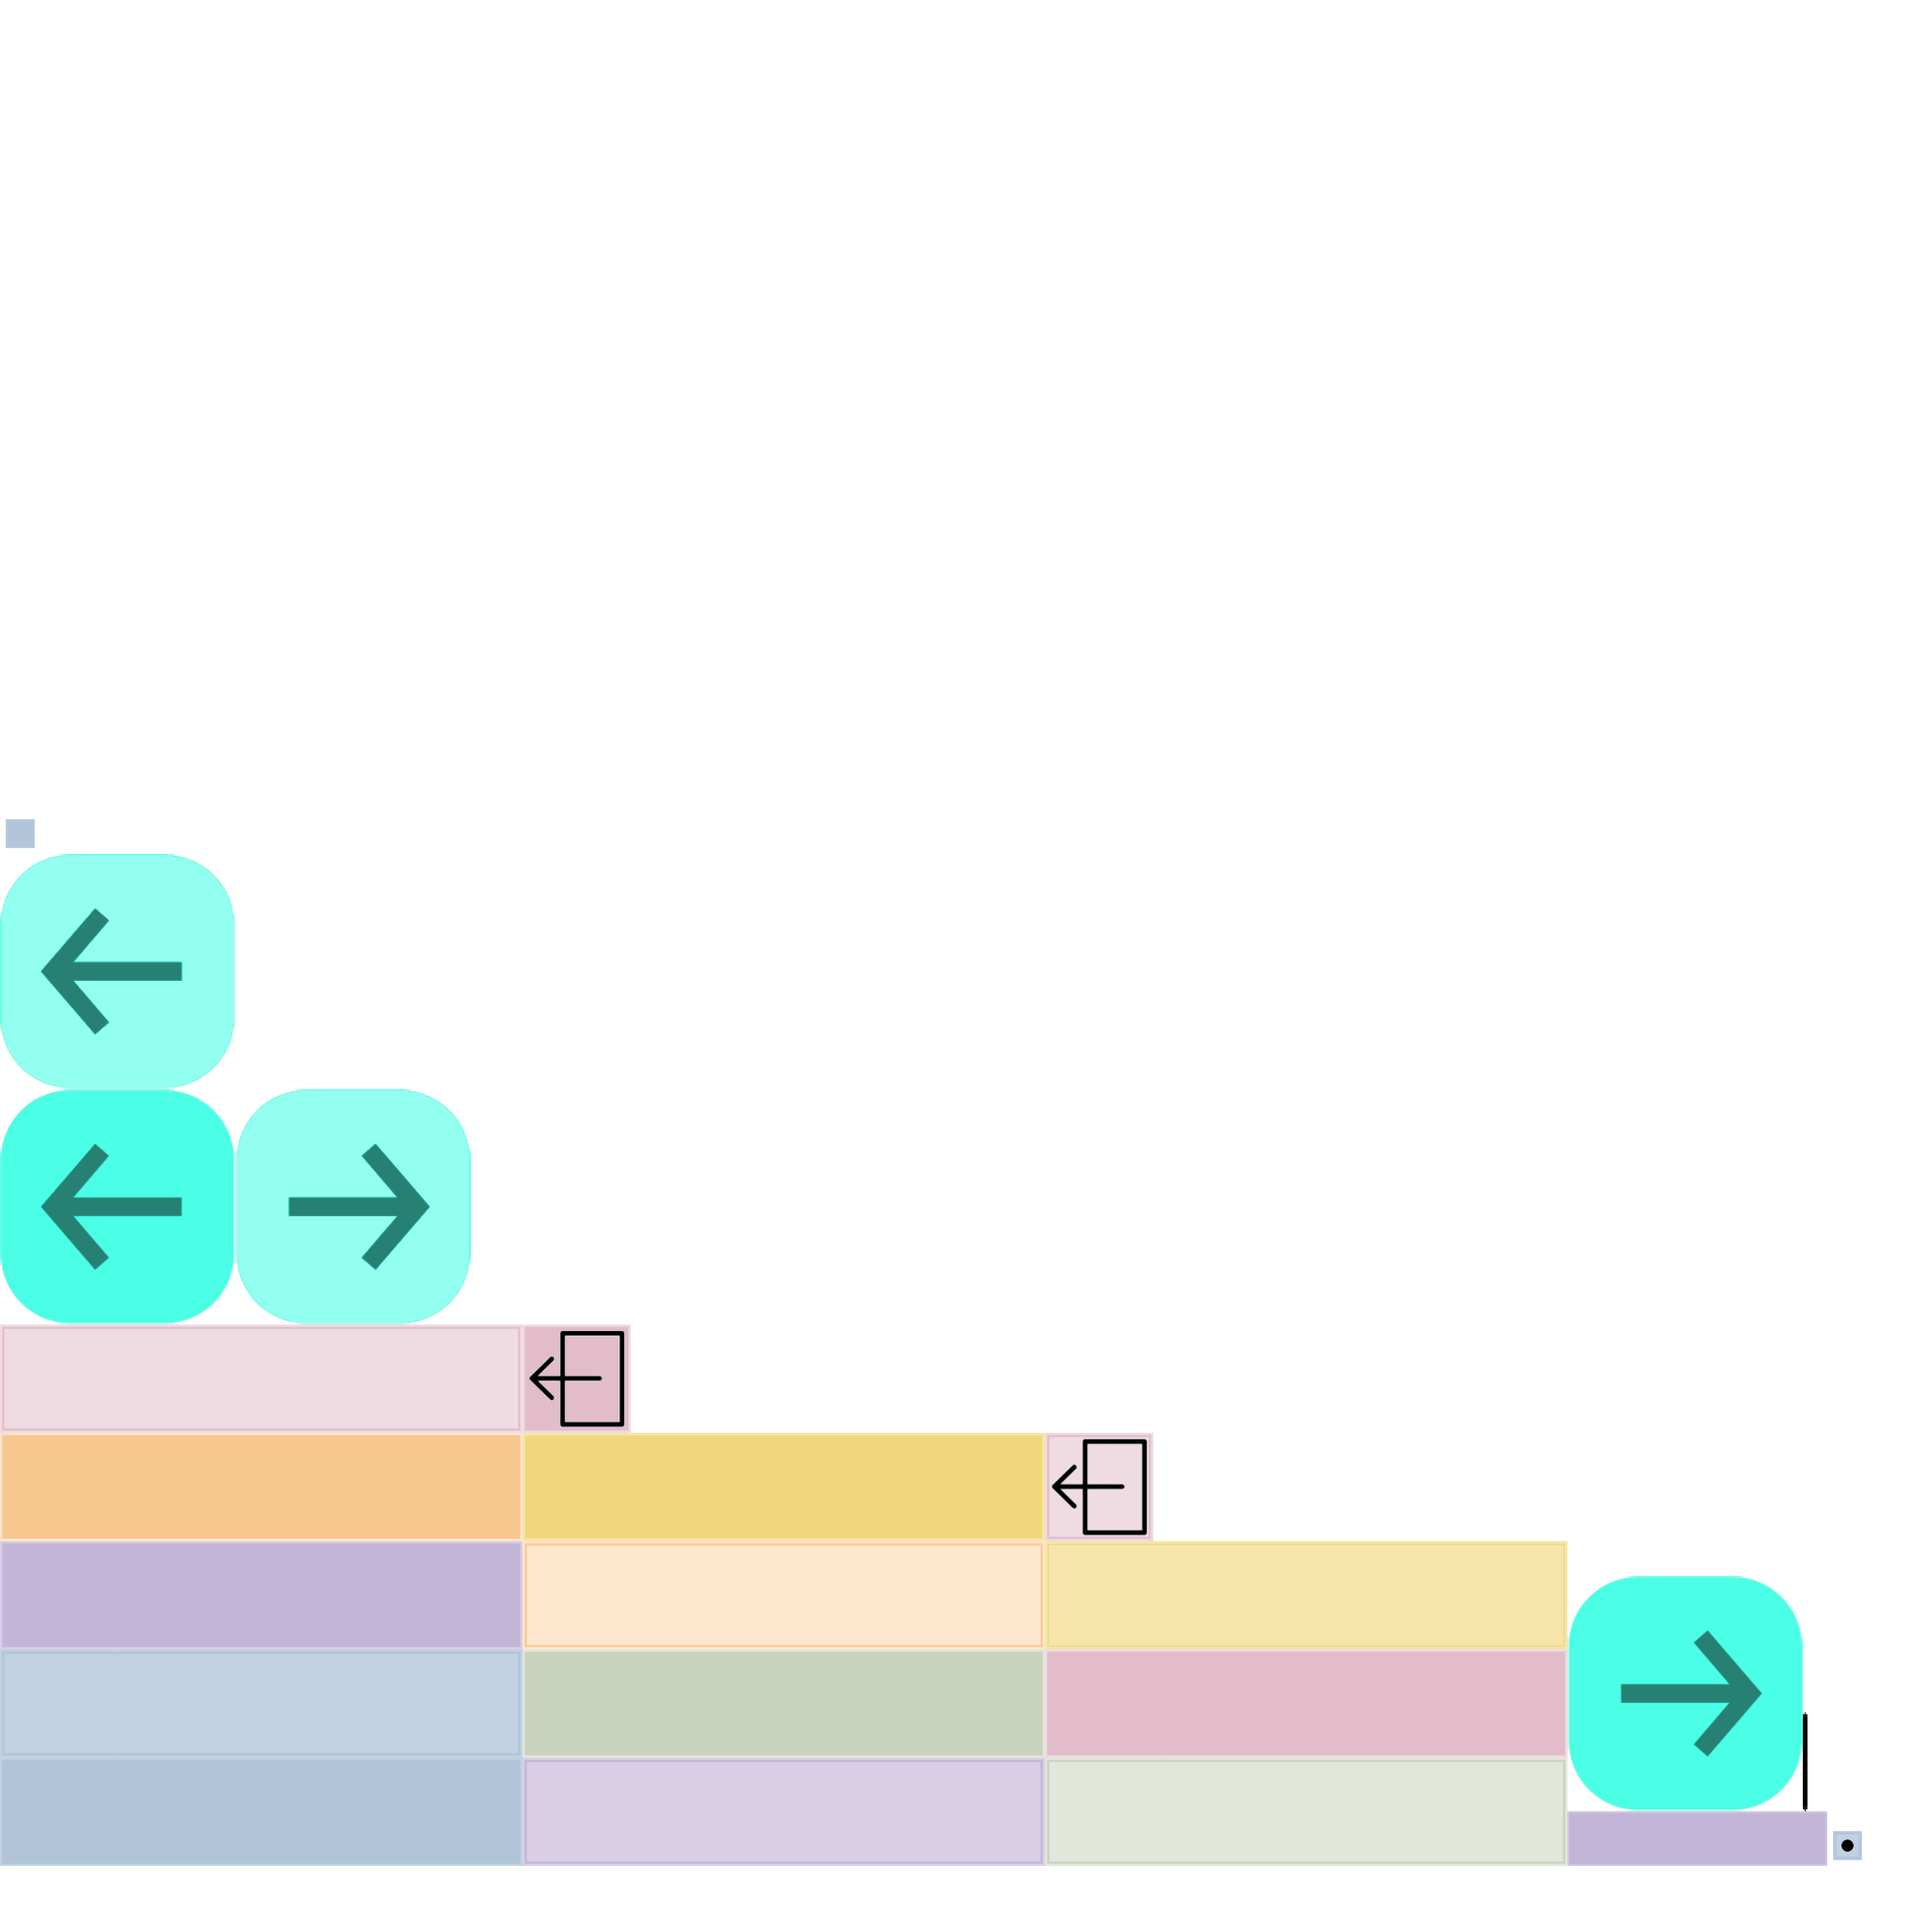
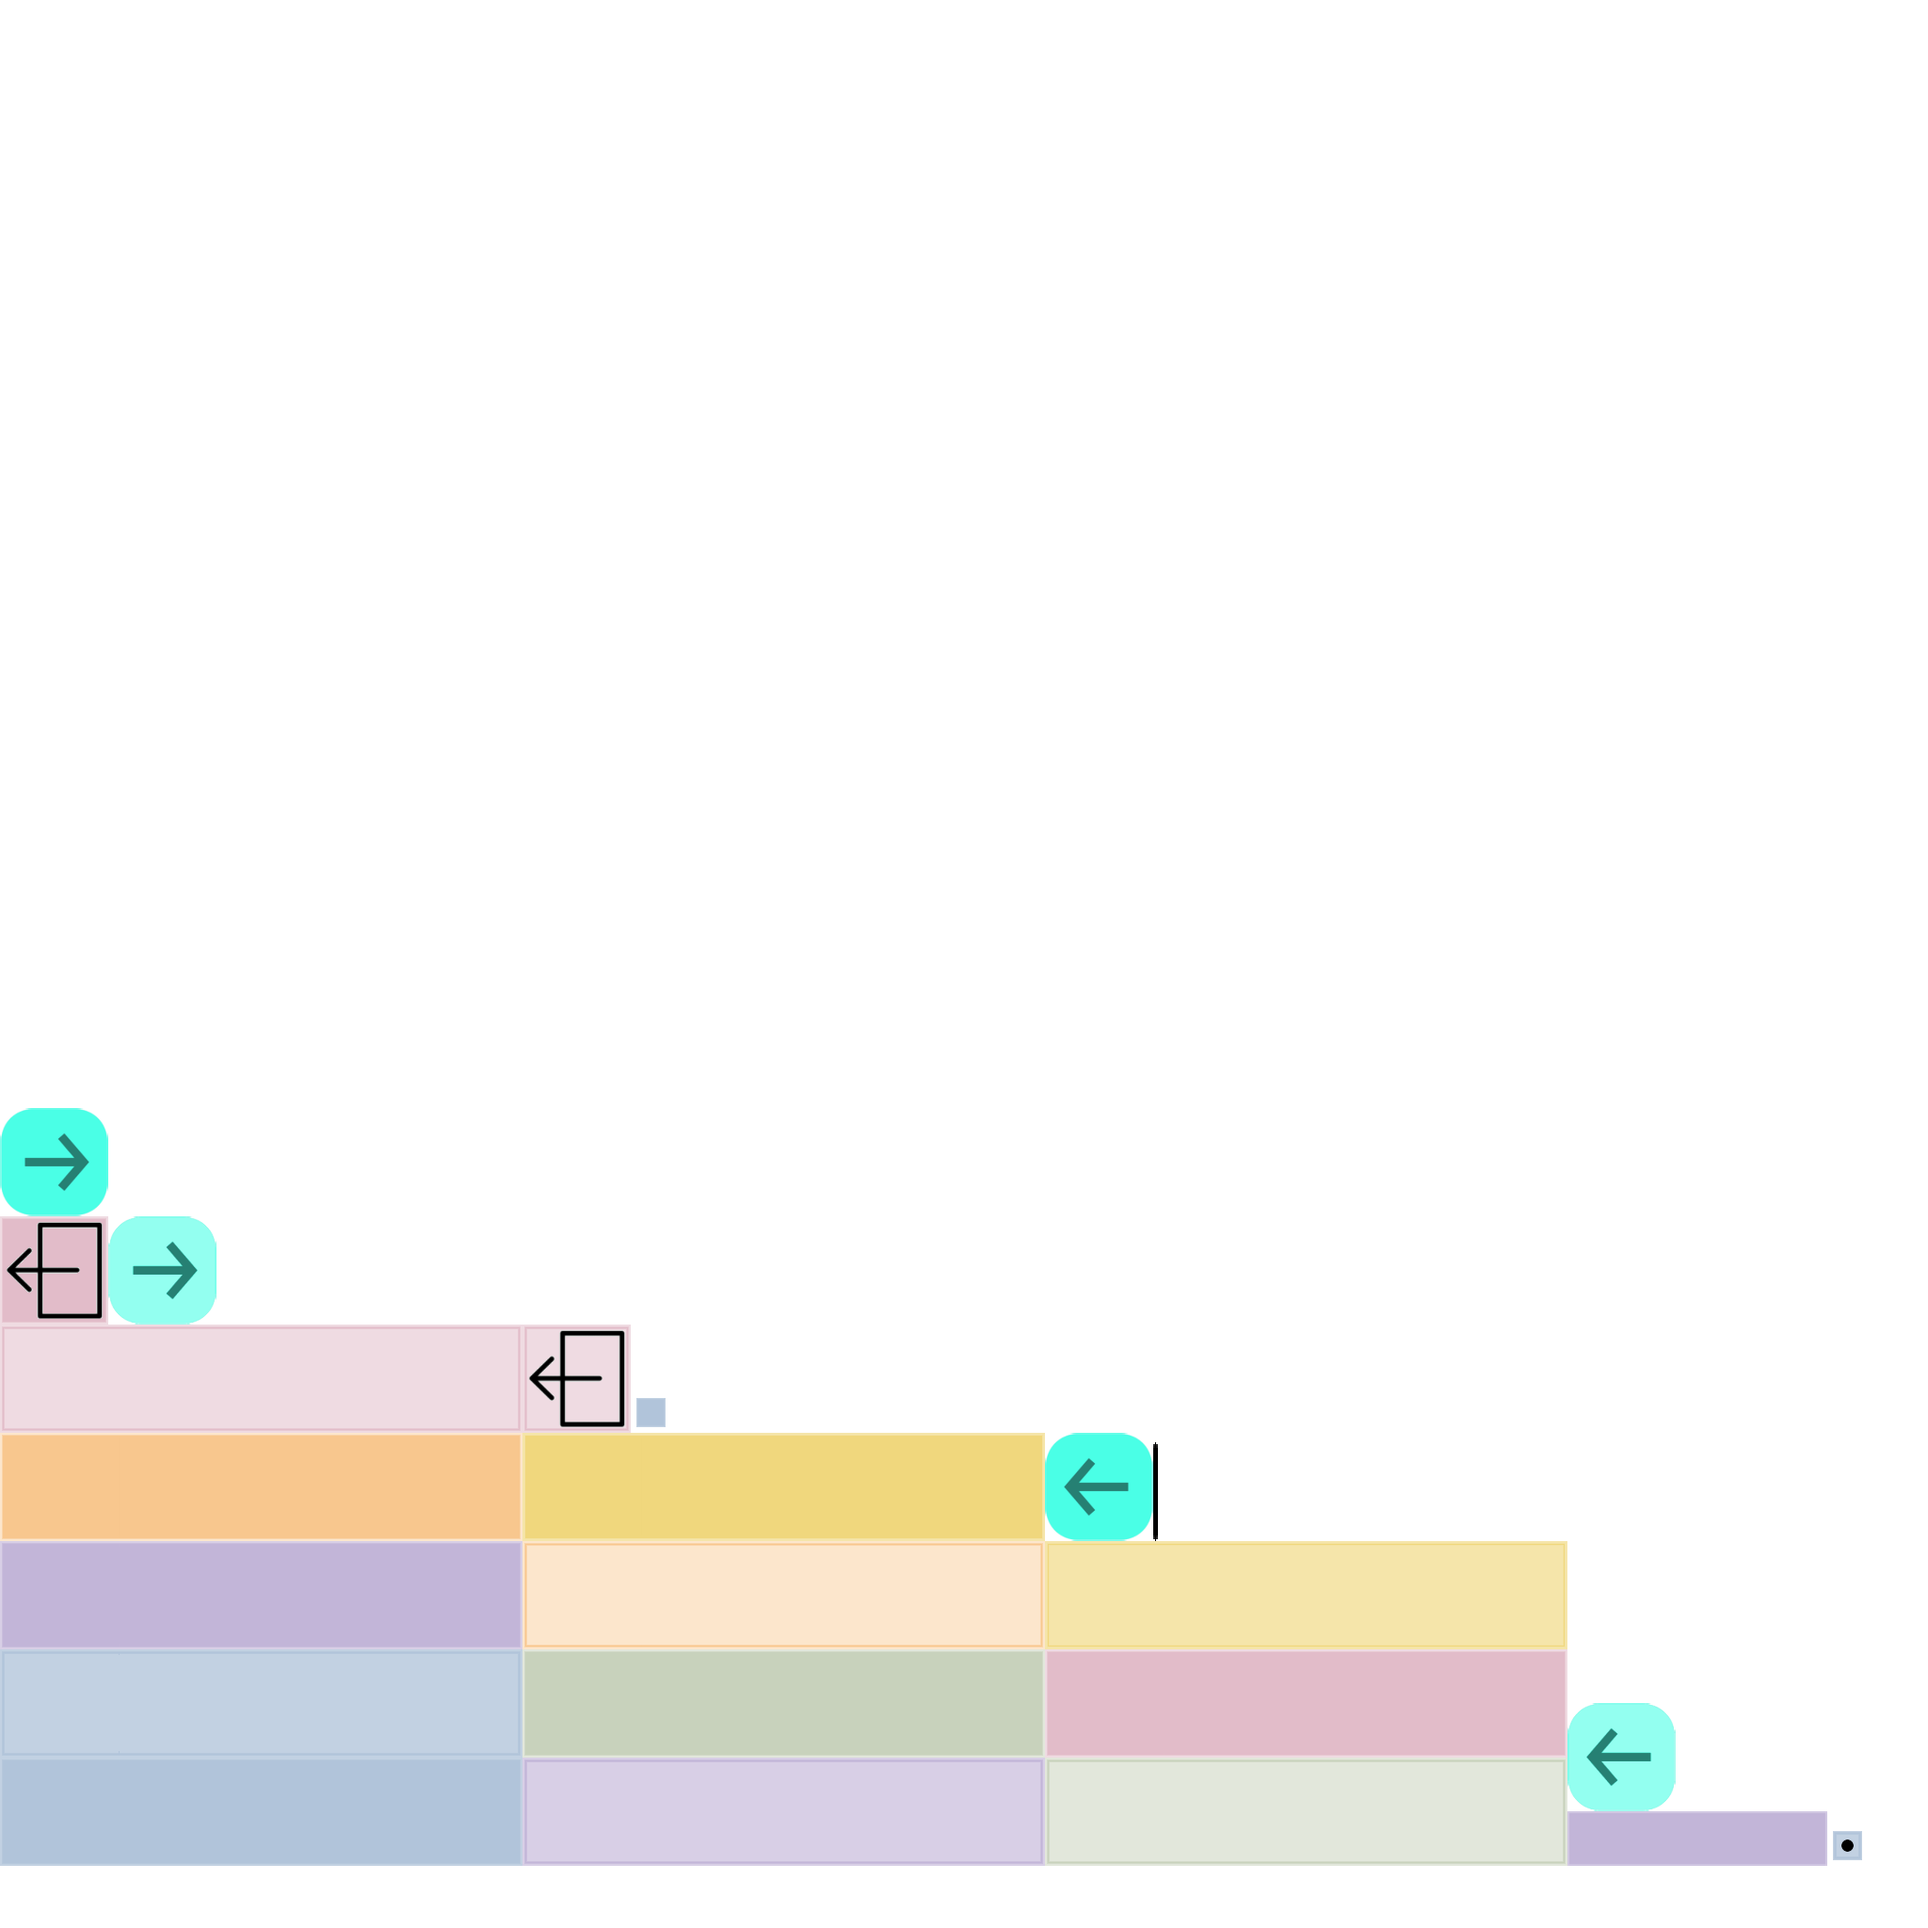
skin update and homescreen now uses an arrow to begin

diff --git a/core/src/com/mygdx/game/views/HomeScreen.java b/core/src/com/mygdx/game/views/HomeScreen.java
@@ -111,12 +111,13 @@ public class HomeScreen implements Screen {
 		topicSelectBox.setItems("Topic 1", "Topic 2", "Topic 3", "Topic 4");
 		topicSelectBox.setAlignment(Align.center);
 		final SelectBox<String> lessonSelectBox = new SelectBox<String>(skin);
-		lessonSelectBox.setItems("Tutorial", "Practice", "Test", "Exam");
+		lessonSelectBox.setItems("Practice", "Test", "Exam", "Tutorial");
 		lessonSelectBox.setAlignment(Align.center);
-		ImageTextButton begin = new ImageTextButton("Begin", skin, "green"); //creates a green button
-		if(parent.problemNumber!=0) {
-			begin.setText("Continue");
-		}
+		Button begin = new Button(skin, "ArrowRight"); //creates an arrow button pointing to the right
+		TextTooltip beginPopup = new TextTooltip("Begin", skin);
+		beginPopup.setInstant(true);
+		TextTooltip continuePopup = new TextTooltip("Continue", skin);
+		continuePopup.setInstant(true);
 		Label userInfo = new Label("", skin);
 		userInfo.setText(userInfoMessage);
 		userInfo.setAlignment(Align.center);
@@ -155,7 +156,7 @@ public class HomeScreen implements Screen {
 		table.add(gradeSelectBox).fillX().uniformX().pad(5).padBottom(100).width(Gdx.graphics.getWidth()/5);
 		table.add(topicSelectBox).fillX().uniformX().pad(5).padBottom(100).width(Gdx.graphics.getWidth()/5);
 		table.add(lessonSelectBox).fillX().uniformX().pad(5).padBottom(100).width(Gdx.graphics.getWidth()/5);
-		table.add(begin).fillX().uniformX().pad(5).padBottom(100).width(Gdx.graphics.getWidth()/5);
+		table.add(begin).uniformX().pad(5).padBottom(100);
 		table.row();
 		table.add(latestAchievements).colspan(2).width(Gdx.graphics.getWidth()/5).align(Align.center);
 		table.add(greatestAchievements).colspan(2).width(Gdx.graphics.getWidth()/5).align(Align.center);
@@ -186,6 +187,8 @@ public class HomeScreen implements Screen {
 		table.add(Iron).pad(5).align(Align.right);
 		table.add(achievement3).pad(5).width(Gdx.graphics.getWidth()/5).align(Align.left);
 		//adding button functionality
+		if(parent.problemNumber==0) begin.addListener(beginPopup);
+		else begin.addListener(continuePopup);
 		Ruby.addListener(RubyPopup);
 		Diamond.addListener(DiamondPopup);
 		Iron.addListener(IronPopup);
